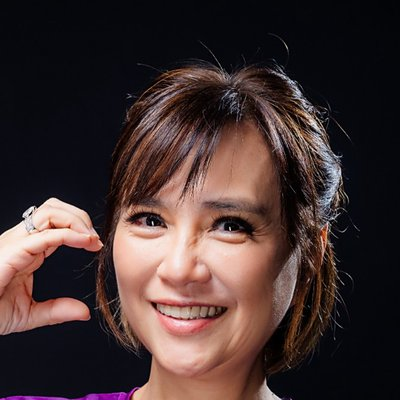
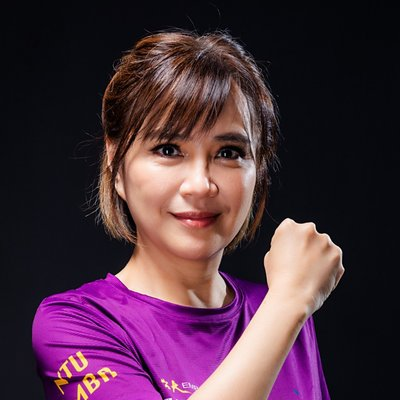
贊助夥伴：林瑟宜換照片；Coco姐標戈19、安執標戈14

diff --git a/staff.html b/staff.html
@@ -607,8 +607,8 @@ const SPONSOR = {
   cash: "", goods: "",
   fallback: {
     cash: [["贊助者", "稱呼補充", "要開抵稅憑證？（Grace）", "贊助款入帳（Grace）", "憑證已開立（Grace）", "網頁曝光（Will）", "慶功宴邀請（Will）", "是否出席（Will）", "備註"],
-      ["Coco姐（堅持）", "校友基金會董事長", "待確認", "待確認", "待確認", "已上架", "待邀請", "待回覆", ""],
-      ["蔡晉暉（安執）", "", "待確認", "待確認", "待確認", "已上架", "待邀請", "待回覆", ""],
+      ["Coco姐（堅持）", "戈19・校友基金會董事長", "待確認", "待確認", "待確認", "已上架", "待邀請", "待回覆", ""],
+      ["蔡晉暉（安執）", "戈14", "待確認", "待確認", "待確認", "已上架", "待邀請", "待回覆", ""],
       ["楊正大（博士）", "戈20", "待確認", "待確認", "待確認", "已上架", "待邀請", "待回覆", ""],
       ["林瑟宜（Sarina）", "戈20", "待確認", "待確認", "待確認", "已上架", "待邀請", "待回覆", ""]],
     goods: [["贊助者", "稱呼補充", "品項", "物品確認（芊芊）", "網頁曝光（Will）", "慶功宴邀請（Will）", "是否出席（Will）", "備註"],

diff --git a/index.html b/index.html
@@ -1019,8 +1019,8 @@ const DATA = {
   ],
   /* 贊助夥伴：取得照片後把 img 改成路徑，例如 "img/sponsor-coco.jpg" */
   sponsors: [
-    { r: "校友基金會董事長", nm: "Coco姐<br>（堅持）", img: "img/sponsor-coco.jpg" },
-    { r: "&nbsp;", nm: "蔡晉暉<br>（安執）", img: "img/sponsor-anzhi.jpg" },
+    { r: "戈19・校友基金會董事長", nm: "Coco姐<br>（堅持）", img: "img/sponsor-coco.jpg" },
+    { r: "戈14", nm: "蔡晉暉<br>（安執）", img: "img/sponsor-anzhi.jpg" },
     { r: "戈20", nm: "楊正大<br>（博士）", img: "img/sponsor-yang.jpg" },
     { r: "戈20", nm: "林瑟宜<br>（Sarina）", img: "img/sponsor-lin.jpg" }
   ],
